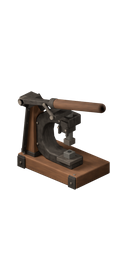
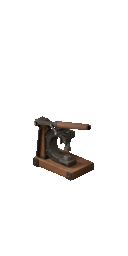
fix(ammunition): scale down press sprite and remove alpha fringe

Changed region(s): [[0.125, 0.3438, 0.875, 0.75]]

diff --git a/mods/auxilias-ammunition/tools/build-press-art.py b/mods/auxilias-ammunition/tools/build-press-art.py
@@ -22,7 +22,9 @@ RELEASE_LINE = CONFIG["target"]["releaseLine"]
 TEXTURES = ROOT / "workshop" / "Contents" / "mods" / "AuxiliasAmmunition" / RELEASE_LINE / "media" / "textures"
 
 DIRECTIONS = ("south", "east", "north", "west")
-BOTTOM = 190  # Vanilla tabletop machinery ends at about y=183 on a 128x256 tile.
+SPRITE_SIZE = (68, 65)  # Match the footprint of vanilla small tabletop machinery.
+BOTTOM = 181  # Key Duplicator art ends near y=181 on a 128x256 tile.
+ALPHA_CUTOFF = 128  # Avoid the game's checkerboard dither on translucent render edges.
 
 
 def cutout(direction: str) -> Image.Image:
@@ -53,9 +55,10 @@ def main() -> None:
     for index, direction in enumerate(DIRECTIONS):
         cut = brighten(cutout(direction))
         cutouts.append(cut)
-        sprite = fit(cut, 106, 99)
+        sprite = fit(cut, *SPRITE_SIZE)
         tile = Image.new("RGBA", (128, 256))
         tile.alpha_composite(sprite, ((128 - sprite.width) // 2, BOTTOM - sprite.height))
+        tile.putalpha(tile.getchannel("A").point(lambda alpha: 255 if alpha >= ALPHA_CUTOFF else 0))
         tile.save(TILES / f"auxammo_press_01_{index}.png")
 
     icon = fit(cutouts[0], 116, 116)

diff --git a/mods/auxilias-ammunition/docs/TESTING.md b/mods/auxilias-ammunition/docs/TESTING.md
@@ -28,6 +28,11 @@ texture being present; vanilla XUI icons produced the same warning in that serve
 Client rendering, tabletop placement/recovery, CraftBench interaction, actual crafting,
 old-save migration, and multiplayer behavior still require the acceptance checks below.
 
+An initial 42.20.4 client placement screenshot showed the press on a table but exposed an
+oversized sprite and a checkerboard fringe under its wooden base. The art was regenerated
+with a maximum 68×65-pixel footprint, a bottom anchor at y=181, and opaque/transparent
+alpha only. Reload the client and verify the corrected scale and edges before release.
+
 ## Earlier v1.1.0 server load smoke (before tabletop press)
 
 On 2026-09-13, an isolated dedicated-server cache loaded the redesigned Workshop tree on the

diff --git a/mods/auxilias-ammunition/CHANGELOG.md b/mods/auxilias-ammunition/CHANGELOG.md
@@ -5,6 +5,8 @@
 - Added a hand-operated tabletop ammunition press as the common station for body
   pressing, primer forming, final assembly, and old-part conversion. Placement and
   crafting behavior still require in-game acceptance.
+- Reduced its placed sprite to the size of vanilla tabletop machinery and removed
+  translucent edge pixels that appeared as a checkerboard along the wooden base.
 - Removed pottery molds, kiln firing, and charcoal fuel from current body production; saved molds
   remain defined and can be salvaged through their published recipe IDs.
 - Combined projectile and casing manufacture into four cartridge-body recipes, with one
